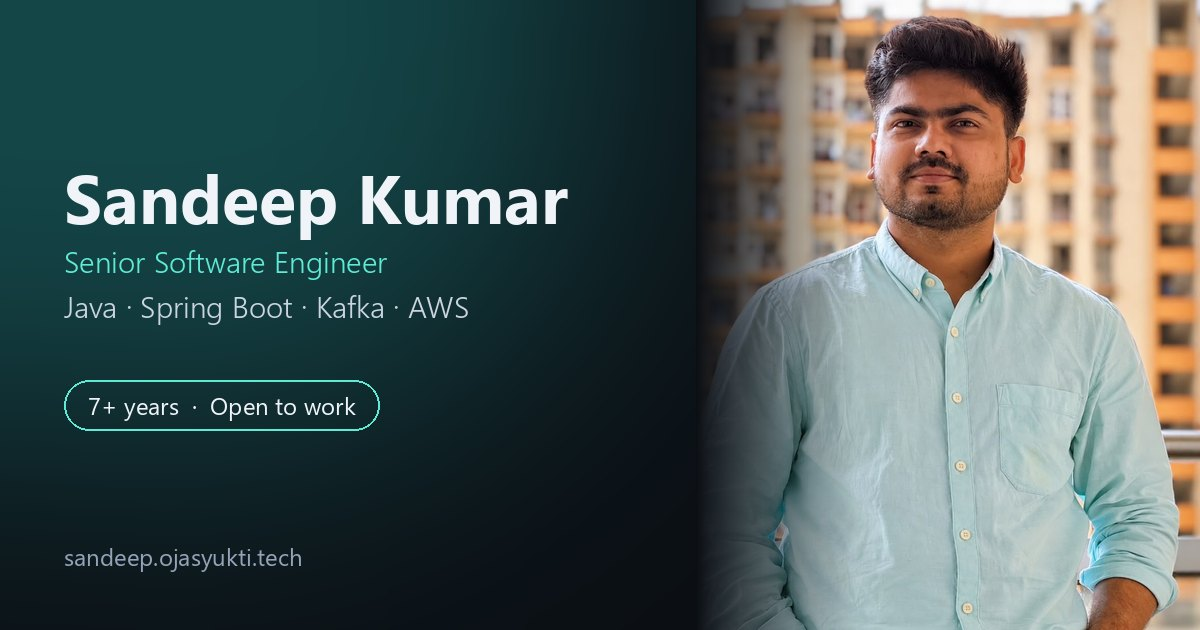
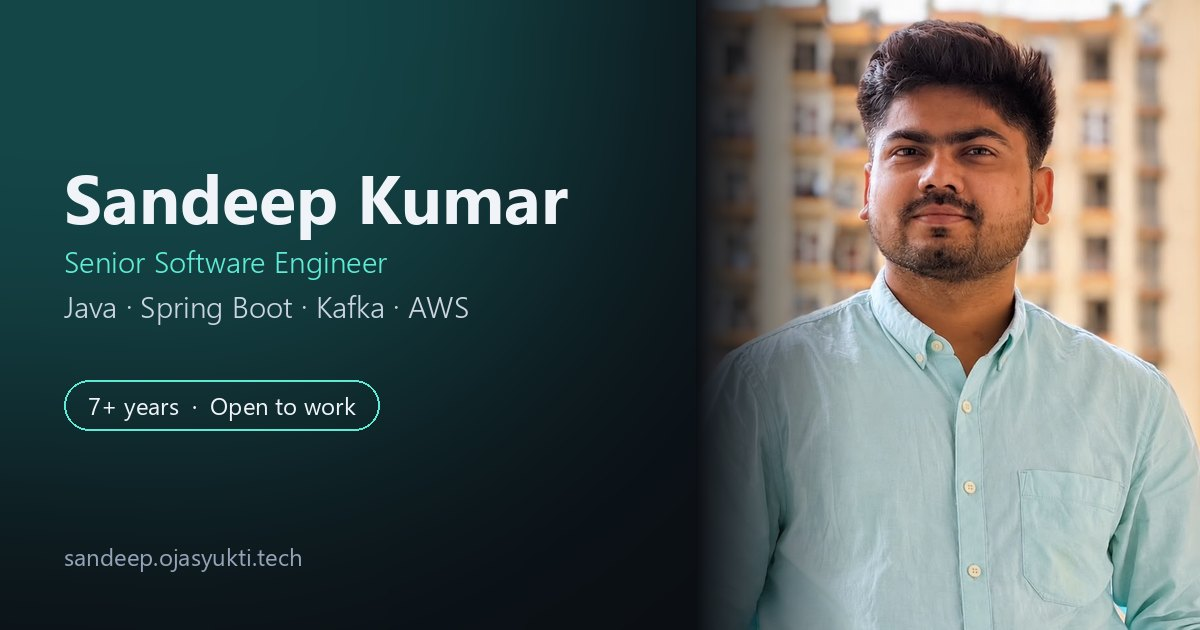
Head-and-shoulders photo, no tags over the face, richer share card

Changed region(s): [[0.5858, 0.0, 1.0, 1.0], [0.6167, 0.573, 0.6783, 1.0], [0.7092, 0.8143, 0.74, 0.8444]]

diff --git a/index.html b/index.html
@@ -19,19 +19,22 @@
   <meta property="og:type" content="profile">
   <meta property="og:url" content="https://sandeep.ojasyukti.tech/">
   <meta property="og:site_name" content="Sandeep Kumar">
-  <meta property="og:title" content="Sandeep Kumar | Senior Software Engineer (Java, Spring Boot, Kafka, AWS)">
-  <meta property="og:description" content="7+ years building scalable Java microservices and event-driven systems. Open to work, immediate joiner.">
-  <meta property="og:image" content="https://sandeep.ojasyukti.tech/assets/og-image.jpg">
+  <meta property="og:title" content="Sandeep Kumar | Senior Software Engineer, Java &amp; AWS">
+  <meta property="og:description" content="Senior Software Engineer with 7+ years building scalable Java microservices and event-driven systems with Spring Boot, Kafka and AWS. Open to work, immediate joiner.">
+  <meta property="og:image" content="https://sandeep.ojasyukti.tech/assets/og-image.jpg?v=2">
+  <meta property="og:image:secure_url" content="https://sandeep.ojasyukti.tech/assets/og-image.jpg?v=2">
+  <meta property="og:image:type" content="image/jpeg">
   <meta property="og:image:width" content="1200">
   <meta property="og:image:height" content="630">
-  <meta property="og:image:alt" content="Sandeep Kumar, Senior Software Engineer: Java, Spring Boot, Kafka, AWS">
+  <meta property="og:image:alt" content="Photo of Sandeep Kumar with the text: Senior Software Engineer, Java, Spring Boot, Kafka, AWS, open to work">
   <meta property="og:locale" content="en_IN">
   <meta property="profile:first_name" content="Sandeep">
   <meta property="profile:last_name" content="Kumar">
   <meta name="twitter:card" content="summary_large_image">
-  <meta name="twitter:title" content="Sandeep Kumar | Senior Software Engineer (Java, Spring Boot, Kafka, AWS)">
-  <meta name="twitter:description" content="7+ years building scalable Java microservices and event-driven systems. Open to work.">
-  <meta name="twitter:image" content="https://sandeep.ojasyukti.tech/assets/og-image.jpg">
+  <meta name="twitter:title" content="Sandeep Kumar | Senior Software Engineer, Java &amp; AWS">
+  <meta name="twitter:description" content="Senior Software Engineer with 7+ years building scalable Java microservices and event-driven systems with Spring Boot, Kafka and AWS. Open to work, immediate joiner.">
+  <meta name="twitter:image" content="https://sandeep.ojasyukti.tech/assets/og-image.jpg?v=2">
+  <meta name="twitter:image:alt" content="Photo of Sandeep Kumar, Senior Software Engineer">
 
   <link rel="preconnect" href="https://fonts.googleapis.com">
   <link rel="preconnect" href="https://fonts.gstatic.com" crossorigin>
@@ -228,8 +231,8 @@
       background: var(--card); border: 1px solid var(--line); box-shadow: var(--shadow); font-size: 14px; font-weight: 600; white-space: nowrap;
     }
     .chip .dot { width: 8px; height: 8px; border-radius: 50%; background: var(--accent); }
-    .chip.c1 { left: -28px; top: 18%; }
-    .chip.c2 { right: -22px; top: 52%; }
+    .chip.c1 { left: -28px; top: 56%; }
+    .chip.c2 { right: -22px; top: 72%; }
     .chip.c2 .dot { background: var(--warm); }
     .chip.c3 { left: 8%; bottom: -16px; }
 
@@ -361,7 +364,7 @@
       .hero { padding-top: 40px; }
       .hero-grid { grid-template-columns: 1fr; gap: 40px; }
       .portrait { order: -1; max-width: 280px; }
-      .chip.c1 { left: -14px; } .chip.c2 { right: -14px; }
+      .chip { display: none; }
       .about, .case.featured { grid-template-columns: 1fr; }
       .work-grid, .edu { grid-template-columns: 1fr; }
     }
